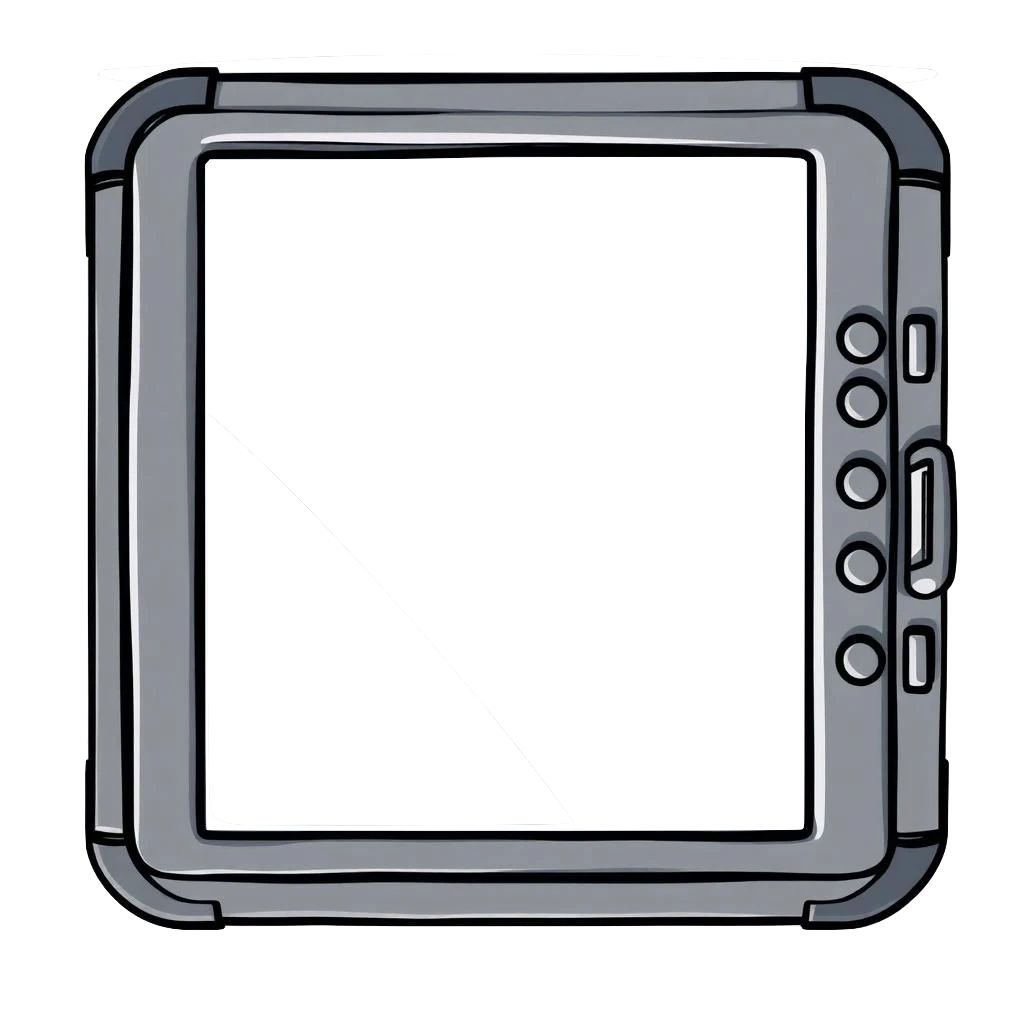
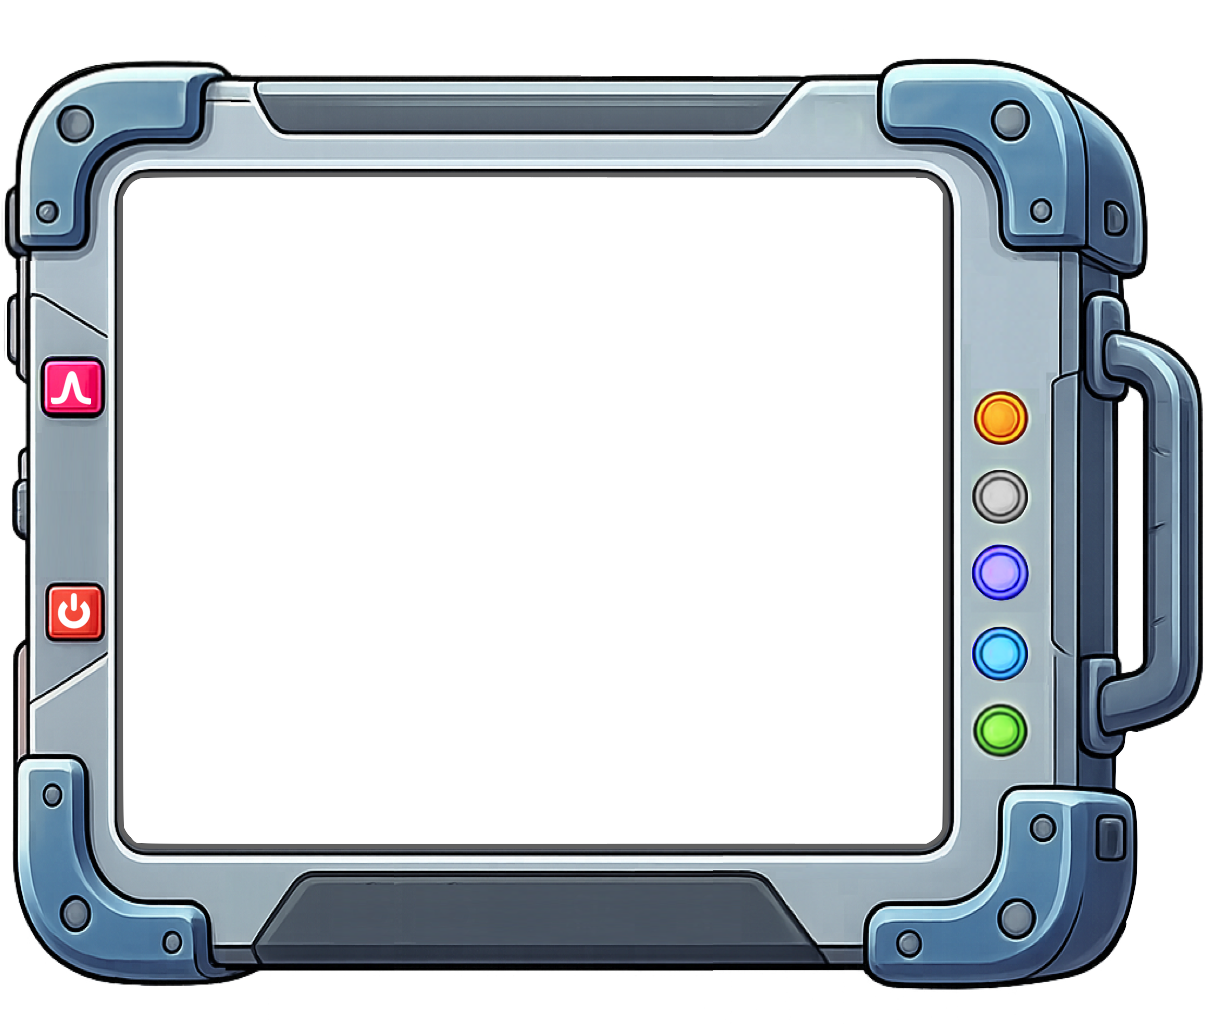
Detector UI overhaul: button glows, panel controls, viewer aspect ratio
- New viewer.png (1224×1024) with correct aspect ratio
- Band buttons: per-color glow on ON state, subtle fill on OFF, scale(1.05)
- NONE → CAM button; CAMERA MODE title and label use green #9df85c
- SHOW GRAPHS label + button on detector face (pink #fe2b71)
- ON/power button on detector face (red #f24a38) toggles detector visibility
- PowerOn.png icon replaces Show Detector checkbox
- Removed Show Graphs checkbox from top bar
- Various position tweaks for buttons, labels, screen area

diff --git a/v2/light-sources.jsx b/v2/light-sources.jsx
@@ -247,24 +247,28 @@ const BANDS = [
     id: 'IR',      label: 'Infrared',    freq: 200,
     divColor: '#c04020',
     btnActive: '#b83010',
+    glowColor: '#ff5321',
     colorFilter: 'sepia(1) saturate(8) hue-rotate(-15deg)',
   },
   {
     id: 'Visible', label: 'Visible',     freq: 800,
     divColor: '#a09050',
     btnActive: '#706840',
+    glowColor: '#e7c32f',
     colorFilter: 'sepia(0.15) saturate(1.4) brightness(1.2)',
   },
   {
     id: 'UV',      label: 'Ultraviolet', freq: 3200,
     divColor: '#8030cc',
     btnActive: '#6b1faa',
+    glowColor: '#d822f0',
     colorFilter: 'sepia(1) saturate(8) hue-rotate(262deg)',
   },
   {
     id: 'XRay',    label: 'X-Ray',       freq: 12000,
     divColor: '#2060a0',
     btnActive: '#1e4a7a',
+    glowColor: '#75e0ff',
     colorFilter: 'sepia(1) saturate(5) hue-rotate(195deg) brightness(1.4)',
   },
 ];
@@ -898,6 +902,10 @@ export default function App() {
   const [devBulbCamMax,       setDevBulbCamMax]       = useState(0.6);
   const [devBtnX,             setDevBtnX]             = useState(0);
   const [devBtnY,             setDevBtnY]             = useState(0);
+  const [devShowGraphsX,      setDevShowGraphsX]      = useState(0);
+  const [devShowGraphsY,      setDevShowGraphsY]      = useState(0);
+  const [devShowGraphsBtnX,   setDevShowGraphsBtnX]   = useState(0);
+  const [devShowGraphsBtnY,   setDevShowGraphsBtnY]   = useState(0);
   const [devScreenX,          setDevScreenX]          = useState(0);
   const [devScreenY,          setDevScreenY]          = useState(0);
   const [devBtnYVis,          setDevBtnYVis]          = useState(0);
@@ -1160,20 +1168,6 @@ export default function App() {
             Dev Mode
           </label>
         </div>
-        <div style={{ display: 'flex', alignItems: 'center', gap: 5 }}>
-          <input
-            id="showGraphs"
-            type="checkbox"
-            checked={showGraphs}
-            onChange={e => setShowGraphs(e.target.checked)}
-            style={{ accentColor: '#22d3ee', width: 22, height: 22, cursor: 'pointer' }}
-          />
-          <label htmlFor="showGraphs" style={{
-            fontSize: 18, color: 'black', cursor: 'pointer', userSelect: 'none',
-          }}>
-            Show Graphs
-          </label>
-        </div>
       </div>
 
 
@@ -1193,48 +1187,27 @@ export default function App() {
                      rounded-2xl px-3 pt-2 pb-3 flex flex-col gap-2
                      border transition-colors duration-150"
           style={{
-            background:  benchDragging ? 'rgba(0,0,0,0.75)' : 'rgba(0,0,0,0.55)',
+            background:  benchDragging ? 'rgba(0,0,0,0.75)' : 'rgba(0,0,0,0)',
             borderColor: benchDragging ? 'rgba(255,90,60,0.5)' : 'rgba(255,255,255,0.18)',
           }}>
-          {/* Detector card */}
-          {(() => {
-            const placed = showDetector;
-            return (
-              <div>
-                <p style={{ fontSize: 8, fontWeight: 700, letterSpacing: '0.15em', textTransform: 'uppercase', color: 'rgba(34,211,238,0.7)', textAlign: 'left', marginBottom: 4 }}>
-                  Detector
-                </p>
-                <div
-                  className="touch-none"
-                  style={{
-                    display: 'flex', alignItems: 'center', gap: 8,
-                    opacity: placed ? 0.38 : 1,
-                    cursor: placed ? 'default' : 'grab',
-                    padding: '3px 4px',
-                    borderRadius: 6,
-                    background: placed ? 'rgba(255,255,255,0.04)' : 'transparent',
-                  }}
-                  onPointerDown={placed ? undefined : e => {
-                    e.preventDefault();
-                    setDrag({
-                      from: 'parts', type: 'viewer', id: null,
-                      cx: e.clientX, cy: e.clientY,
-                      sx: e.clientX, sy: e.clientY,
-                      ox: VIEWER_W / 2,
-                      oy: VIEWER_H * 0.1,
-                    });
-                  }}>
-                  <img src="images/viewer.png" alt="Detector" draggable={false}
-                    className="drop-shadow pointer-events-none"
-                    style={{ width: Math.round(40 * 1224 / 1024), height: 40, objectFit: 'contain', flexShrink: 0 }} />
-                  <span style={{ fontSize: 9, color: 'rgba(255,255,255,0.75)', lineHeight: 1.3, flex: 1 }}>
-                    Radiation Detector
-                  </span>
-                  {placed && <span style={{ fontSize: 11, color: 'rgba(255,255,255,0.4)', flexShrink: 0 }}>✓</span>}
-                </div>
-              </div>
-            );
-          })()}
+          {/* Detector toggle */}
+          <div style={{ display: 'flex', alignItems: 'center', gap: 6, padding: '2px 4px' }}
+            onPointerDown={e => e.stopPropagation()}
+            onClick={() => setShowDetector(d => !d)}>
+            <img src="images/PowerOn.png" draggable={false}
+              style={{
+                width: 32, height: Math.round(32 * 61/64), cursor: 'pointer', flexShrink: 0,
+                opacity: showDetector ? 1 : 0.4,
+                filter: showDetector ? 'drop-shadow(0 0 6px #f24a38cc)' : 'none',
+              }} />
+            <span style={{
+              fontSize: 22, fontWeight: 700, letterSpacing: '0.15em', textTransform: 'uppercase',
+              color: 'black', cursor: 'pointer', userSelect: 'none', lineHeight: 1.1,
+            }}>
+              Show<br />Detector
+            </span>
+          </div>
+
 
           {/* Source group renderer */}
           {[
@@ -1702,6 +1675,14 @@ export default function App() {
             value={devBulbVisBright} onChange={setDevBulbVisBright} fmt={v => v.toFixed(1)} />
           <DevSlider label="Cam Vis Max" min={0.05} max={1.0} step={0.025}
             value={devBulbCamMax} onChange={setDevBulbCamMax} fmt={v => v.toFixed(3)} />
+          <DevSlider label="ShowGr X" min={-300} max={300} step={1}
+            value={devShowGraphsX} onChange={setDevShowGraphsX} fmt={v => v.toFixed(0)} />
+          <DevSlider label="ShowGr Y" min={-300} max={300} step={1}
+            value={devShowGraphsY} onChange={setDevShowGraphsY} fmt={v => v.toFixed(0)} />
+          <DevSlider label="GrBtn X" min={-300} max={700} step={1}
+            value={devShowGraphsBtnX} onChange={setDevShowGraphsBtnX} fmt={v => v.toFixed(0)} />
+          <DevSlider label="GrBtn Y" min={-300} max={700} step={1}
+            value={devShowGraphsBtnY} onChange={setDevShowGraphsBtnY} fmt={v => v.toFixed(0)} />
           <DevSlider label="Screen X" min={-300} max={300} step={1}
             value={devScreenX} onChange={setDevScreenX} fmt={v => v.toFixed(0)} />
           <DevSlider label="Screen Y" min={-300} max={300} step={1}
@@ -1744,6 +1725,33 @@ export default function App() {
             background: photoMode ? 'transparent' : '#000',
           }}
         >
+          {/* Show Graphs label */}
+          <div
+            style={{
+              position: 'absolute',
+              left: 14 + devShowGraphsX,
+              top: '50%',
+              transform: `translateY(calc(-50% - 78px + ${devShowGraphsY}px))`,
+              zIndex: 20, pointerEvents: 'auto', cursor: 'pointer',
+            }}
+            onClick={() => setShowGraphs(g => !g)}>
+            <span style={{
+              fontFamily: '"Courier New", Courier, monospace',
+              fontSize: 22, fontWeight: 'bold', letterSpacing: '0.08em',
+              color: showGraphs ? '#fe2b71' : 'rgba(254,43,113,0.6)',
+              textShadow: showGraphs ? [
+                '0 0 2px #fe2b71',
+                '0 0 8px #fe2b71dd',
+                '0 0 18px #fe2b7188',
+                '0 0 35px #fe2b7144',
+              ].join(', ') : 'none',
+              filter: showGraphs ? 'brightness(1.3) contrast(1.1)' : 'none',
+              userSelect: 'none', lineHeight: 1.0, textAlign: 'left', display: 'block',
+            }}>
+              GRAPHS
+            </span>
+          </div>
+
           {/* CRT scanlines */}
           <div style={{
             position: 'absolute', inset: 0, pointerEvents: 'none', zIndex: 5,
@@ -1756,7 +1764,7 @@ export default function App() {
             const titleMap = { IR: 'IR RADIATION', Visible: 'VISIBLE RADIATION', UV: 'UV RADIATION', XRay: 'XRAY RADIATION' };
             const colorMap = { IR: '#ff6622', Visible: '#d4c060', UV: '#aa22ff', XRay: '#44aaff' };
             const title = photoMode ? 'CAMERA MODE' : titleMap[selectedBand];
-            const color = photoMode ? '#22d3ee' : colorMap[selectedBand];
+            const color = photoMode ? '#9df85c' : colorMap[selectedBand];
             return (
               <div style={{
                 position: 'absolute', top: 35, left: 0, right: 0,
@@ -1838,6 +1846,69 @@ export default function App() {
           })()}
         </div>
 
+        {/* Show Graphs rounded rect button — on detector face, above viewer image */}
+        <div
+          style={{
+            position: 'absolute',
+            left: 27 + devShowGraphsBtnX,
+            top: 222 + devShowGraphsBtnY,
+            width: 35, height: 32, borderRadius: 6,
+            background: showGraphs ? '#fe2b7180' : 'rgba(0,0,0,0)',
+            border: `2px solid ${showGraphs ? '#fe2b71' : 'rgba(254,43,113,0.4)'}`,
+            boxShadow: showGraphs ? [
+              '0 0 12px 6px #fe2b71D9',
+              '0 0 30px 12px #fe2b7194',
+              '0 0 60px 20px #fe2b7162',
+            ].join(', ') : 'none',
+            zIndex: 3, pointerEvents: 'auto', cursor: 'pointer',
+            transition: 'background 0.15s, box-shadow 0.15s',
+          }}
+          onClick={() => setShowGraphs(g => !g)}
+        />
+
+        {/* Power button — glows when detector is on, click to hide */}
+        <div
+          style={{
+            position: 'absolute',
+            left: 29 + devShowGraphsBtnX,
+            top: 362 + devShowGraphsBtnY,
+            width: 35, height: 32, borderRadius: 6,
+            background: showDetector ? '#f24a3880' : 'rgba(0,0,0,0)',
+            border: `1px solid ${showDetector ? '#f24a38' : 'rgba(242,74,56,0.4)'}`,
+            boxShadow: showDetector ? [
+              '0 0 12px 6px #f24a38D9',
+              '0 0 30px 12px #f24a3894',
+              '0 0 60px 20px #f24a3862',
+            ].join(', ') : 'none',
+            zIndex: 3, pointerEvents: 'auto', cursor: 'pointer',
+            transition: 'background 0.15s, box-shadow 0.15s',
+          }}
+          onClick={() => setShowDetector(d => !d)}
+        />
+        {/* ON label — directly below SHOW GRAPH text */}
+        <div style={{
+          position: 'absolute',
+          left: SCREEN_L + 14 + devShowGraphsX,
+          top: 364,
+          zIndex: 3, pointerEvents: 'auto', cursor: 'pointer',
+          display: 'flex', alignItems: 'center', height: 32,
+        }}
+          onClick={() => setShowDetector(d => !d)}>
+          <span style={{
+            fontFamily: '"Courier New", Courier, monospace',
+            fontSize: 22, fontWeight: 'bold', letterSpacing: '0.08em',
+            color: showDetector ? '#f24a38' : 'rgba(242,74,56,0.6)',
+            textShadow: showDetector ? [
+              '0 0 2px #f24a38',
+              '0 0 8px #f24a38dd',
+              '0 0 18px #f24a3888',
+              '0 0 35px #f24a3844',
+            ].join(', ') : 'none',
+            filter: showDetector ? 'brightness(1.3) contrast(1.1)' : 'none',
+            userSelect: 'none',
+          }}>ON</span>
+        </div>
+
         {/* Device image — on top, transparent center reveals the screen behind */}
         <img src="images/viewer.png" draggable={false}
           style={{
@@ -1891,15 +1962,12 @@ export default function App() {
                   width:  BTN_R * 2 - 4,
                   height: BTN_R * 2 - 4,
                   borderRadius: '50%',
-                  background: isActive
-                    ? `radial-gradient(circle, #fff9 0%, ${b.divColor}ee 45%, ${b.btnActive} 100%)`
-                    : 'rgba(30,30,30,0.1)',
+                  background: isActive ? `${b.glowColor}80` : `rgba(0,0,0,0)`,
+                  transform: isActive ? 'scale(1)' : 'scale(1.05)',
                   boxShadow: isActive ? [
-                    `0 0 3px 1px #fff8`,
-                    `0 0 8px 3px ${b.divColor}`,
-                    `0 0 18px 6px ${b.divColor}cc`,
-                    `0 0 36px 10px ${b.divColor}77`,
-                    `0 0 60px 16px ${b.divColor}33`,
+                    `0 0 12px 6px ${b.glowColor}D9`,
+                    `0 0 30px 12px ${b.glowColor}94`,
+                    `0 0 60px 20px ${b.glowColor}62`,
                   ].join(', ') : 'none',
                   cursor: 'pointer',
                   zIndex: 10,
@@ -1916,6 +1984,7 @@ export default function App() {
         {(() => {
           const photoColor = '#a0b8a0';
           const photoBtnActive = '#607860';
+          const photoGlow = '#9df85c';
           const labelRight = VIEWER_W - (BTN_CX - BTN_R - 6);
           return (
             <div>
@@ -1932,18 +2001,18 @@ export default function App() {
                 <span style={{
                   fontFamily: '"Courier New", Courier, monospace',
                   fontSize: 22, fontWeight: 'bold', letterSpacing: '0.08em',
-                  color: photoMode ? photoColor : 'rgba(255,255,255,0.28)',
+                  color: photoMode ? photoGlow : 'rgba(255,255,255,0.28)',
                   textShadow: photoMode ? [
-                    `0 0 2px ${photoColor}`,
-                    `0 0 8px ${photoColor}dd`,
-                    `0 0 18px ${photoColor}88`,
-                    `0 0 35px ${photoColor}44`,
+                    `0 0 2px ${photoGlow}`,
+                    `0 0 8px ${photoGlow}dd`,
+                    `0 0 18px ${photoGlow}88`,
+                    `0 0 35px ${photoGlow}44`,
                   ].join(', ') : 'none',
                   transition: 'color 0.12s, text-shadow 0.12s',
                   filter: photoMode ? 'brightness(1.3) contrast(1.1)' : 'none',
                   display: 'block',
                 }}>
-                  NONE
+                  CAM
                 </span>
               </div>
               <div
@@ -1954,15 +2023,12 @@ export default function App() {
                   width:  BTN_R * 2 - 4,
                   height: BTN_R * 2 - 4,
                   borderRadius: '50%',
-                  background: photoMode
-                    ? `radial-gradient(circle, #fff9 0%, ${photoColor}ee 45%, ${photoBtnActive} 100%)`
-                    : 'rgba(30,30,30,0.1)',
+                  background: photoMode ? `${photoGlow}80` : `rgba(0,0,0,0)`,
+                  transform: photoMode ? 'scale(1)' : 'scale(1.05)',
                   boxShadow: photoMode ? [
-                    `0 0 3px 1px #fff8`,
-                    `0 0 8px 3px ${photoColor}`,
-                    `0 0 18px 6px ${photoColor}cc`,
-                    `0 0 36px 10px ${photoColor}77`,
-                    `0 0 60px 16px ${photoColor}33`,
+                    `0 0 12px 6px ${photoGlow}D9`,
+                    `0 0 30px 12px ${photoGlow}94`,
+                    `0 0 60px 20px ${photoGlow}62`,
                   ].join(', ') : 'none',
                   cursor: 'pointer',
                   zIndex: 10,
